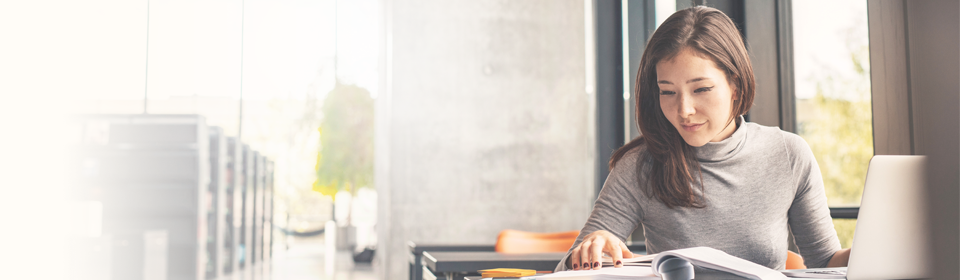
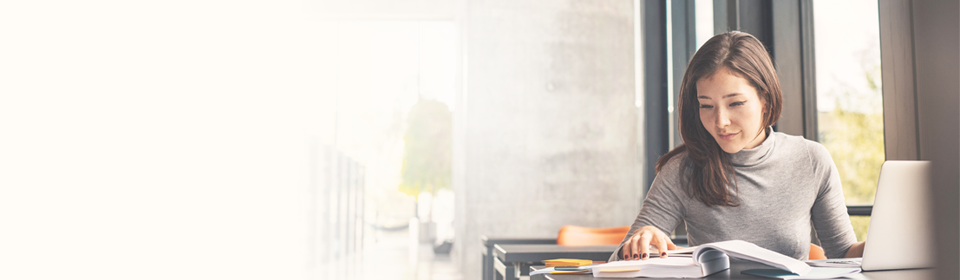
update

diff --git a/MR201905-html/201905_3/index.html b/MR201905-html/201905_3/index.html
@@ -108,8 +108,7 @@ div.text_in:after {
                 </div>
                 <div id="box3">
                     <div class="text_in">
-                          <p class="text_left_m10 s_18" style="background-color: #e9e9e7; border-top-left-radius: 10px; border-top-right-radius: 10px; border-bottom-right-radius: 10px; border-bottom-left-radius: 10px; padding: 15px 15px 15px 15px; text-align: justify;">
-                          小編貼心提醒：<br>
+                          <p class="text_left_m10 s_18" style="background-color: #e9e9e7; border-top-left-radius: 10px; border-top-right-radius: 10px; border-bottom-right-radius: 10px; border-bottom-left-radius: 10px; padding: 15px 15px 15px 15px; text-align: justify;"> 貼心提醒：<br>
                           一、	辦理「股利贈與信託」，需留意國稅局依「實質課稅原則」核課贈與稅，建議您與銀行聯絡確認規劃細節。<br>
 二、	公司內部人於辦理「股利贈與信託」時，須依證券交易法，辦理事前及事後申報。<br>
 三、	您如果是公開發行股票公司之董監事，需留意在任期中，若轉讓超過選任當時所持有公司股份的1/2時，會發生董監事當然解任的情形。

diff --git a/MR201905-html/201905_3/css/main.css b/MR201905-html/201905_3/css/main.css
@@ -323,7 +323,7 @@
 	position: absolute;
 	width: auto;
 	height: auto;
-	top: 20%;
+	top: 25%;
 	left: 5%;
 	margin-right: 0;
 	margin-top: 0;
